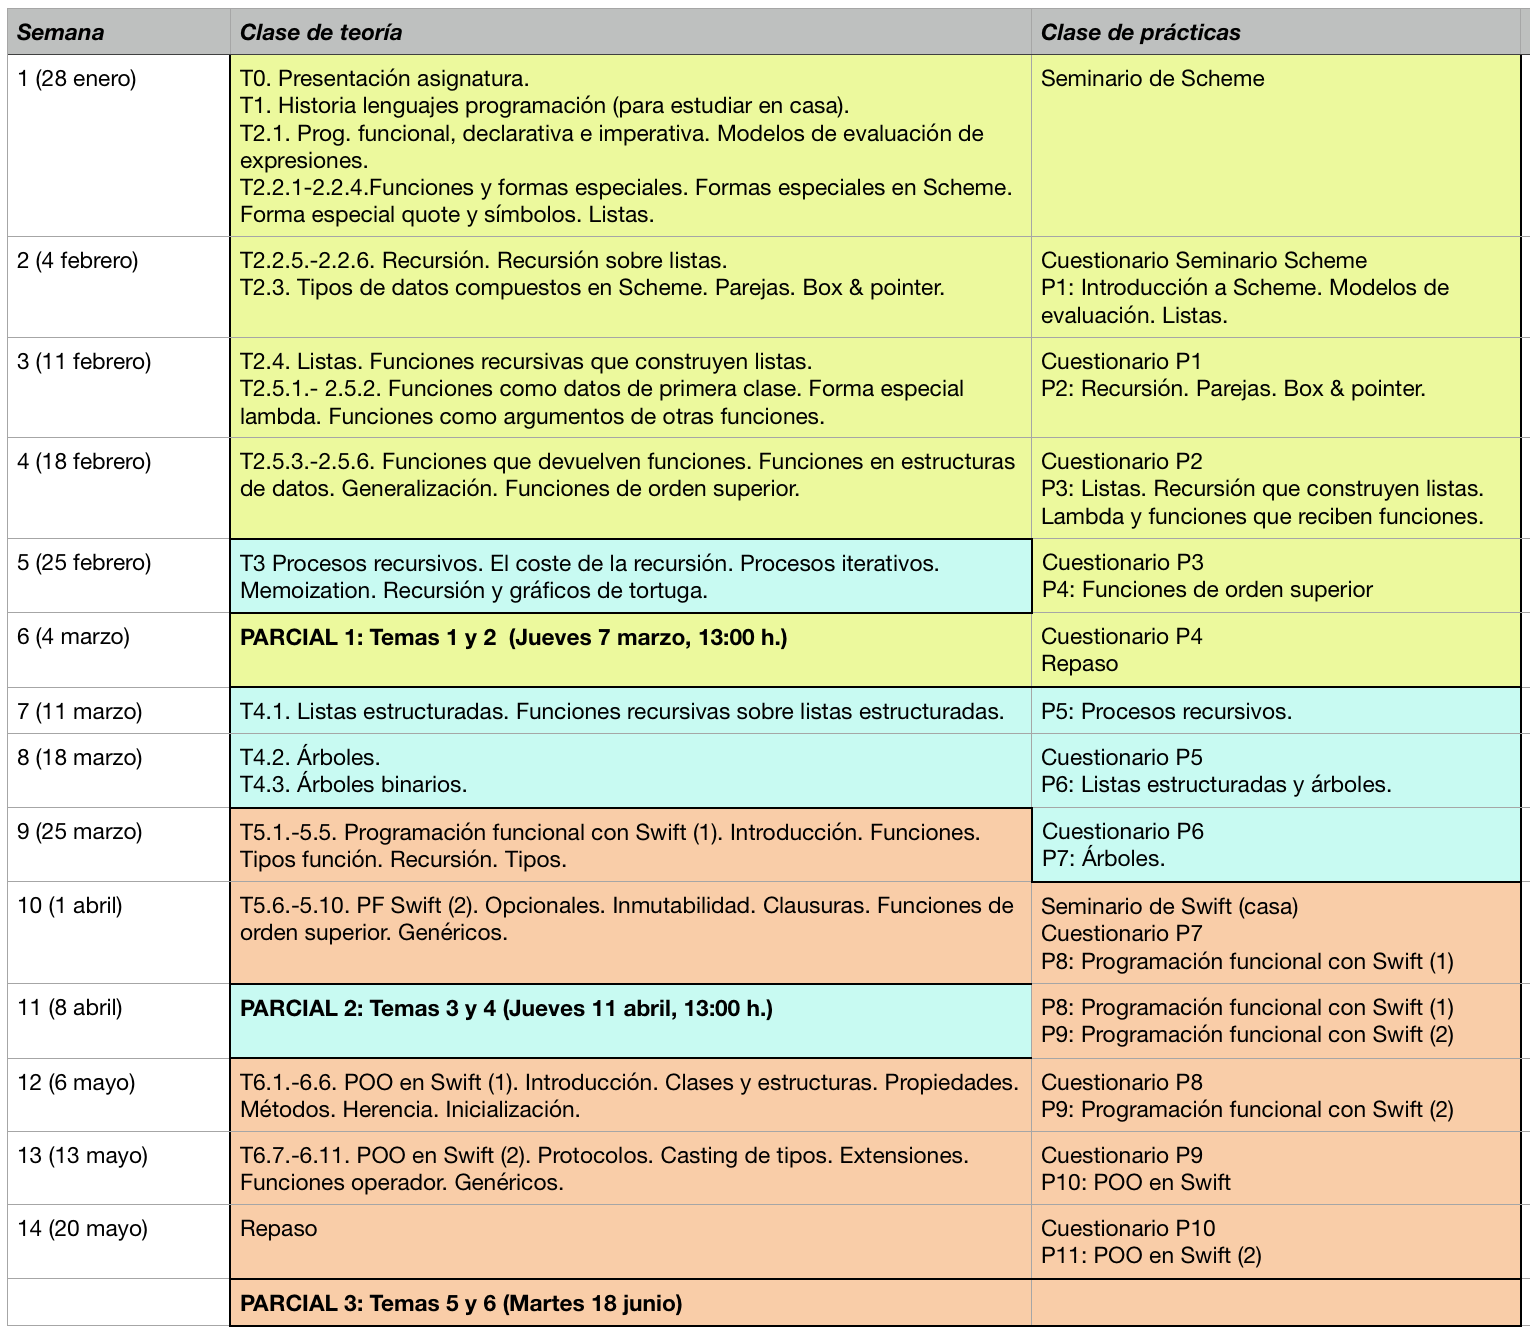
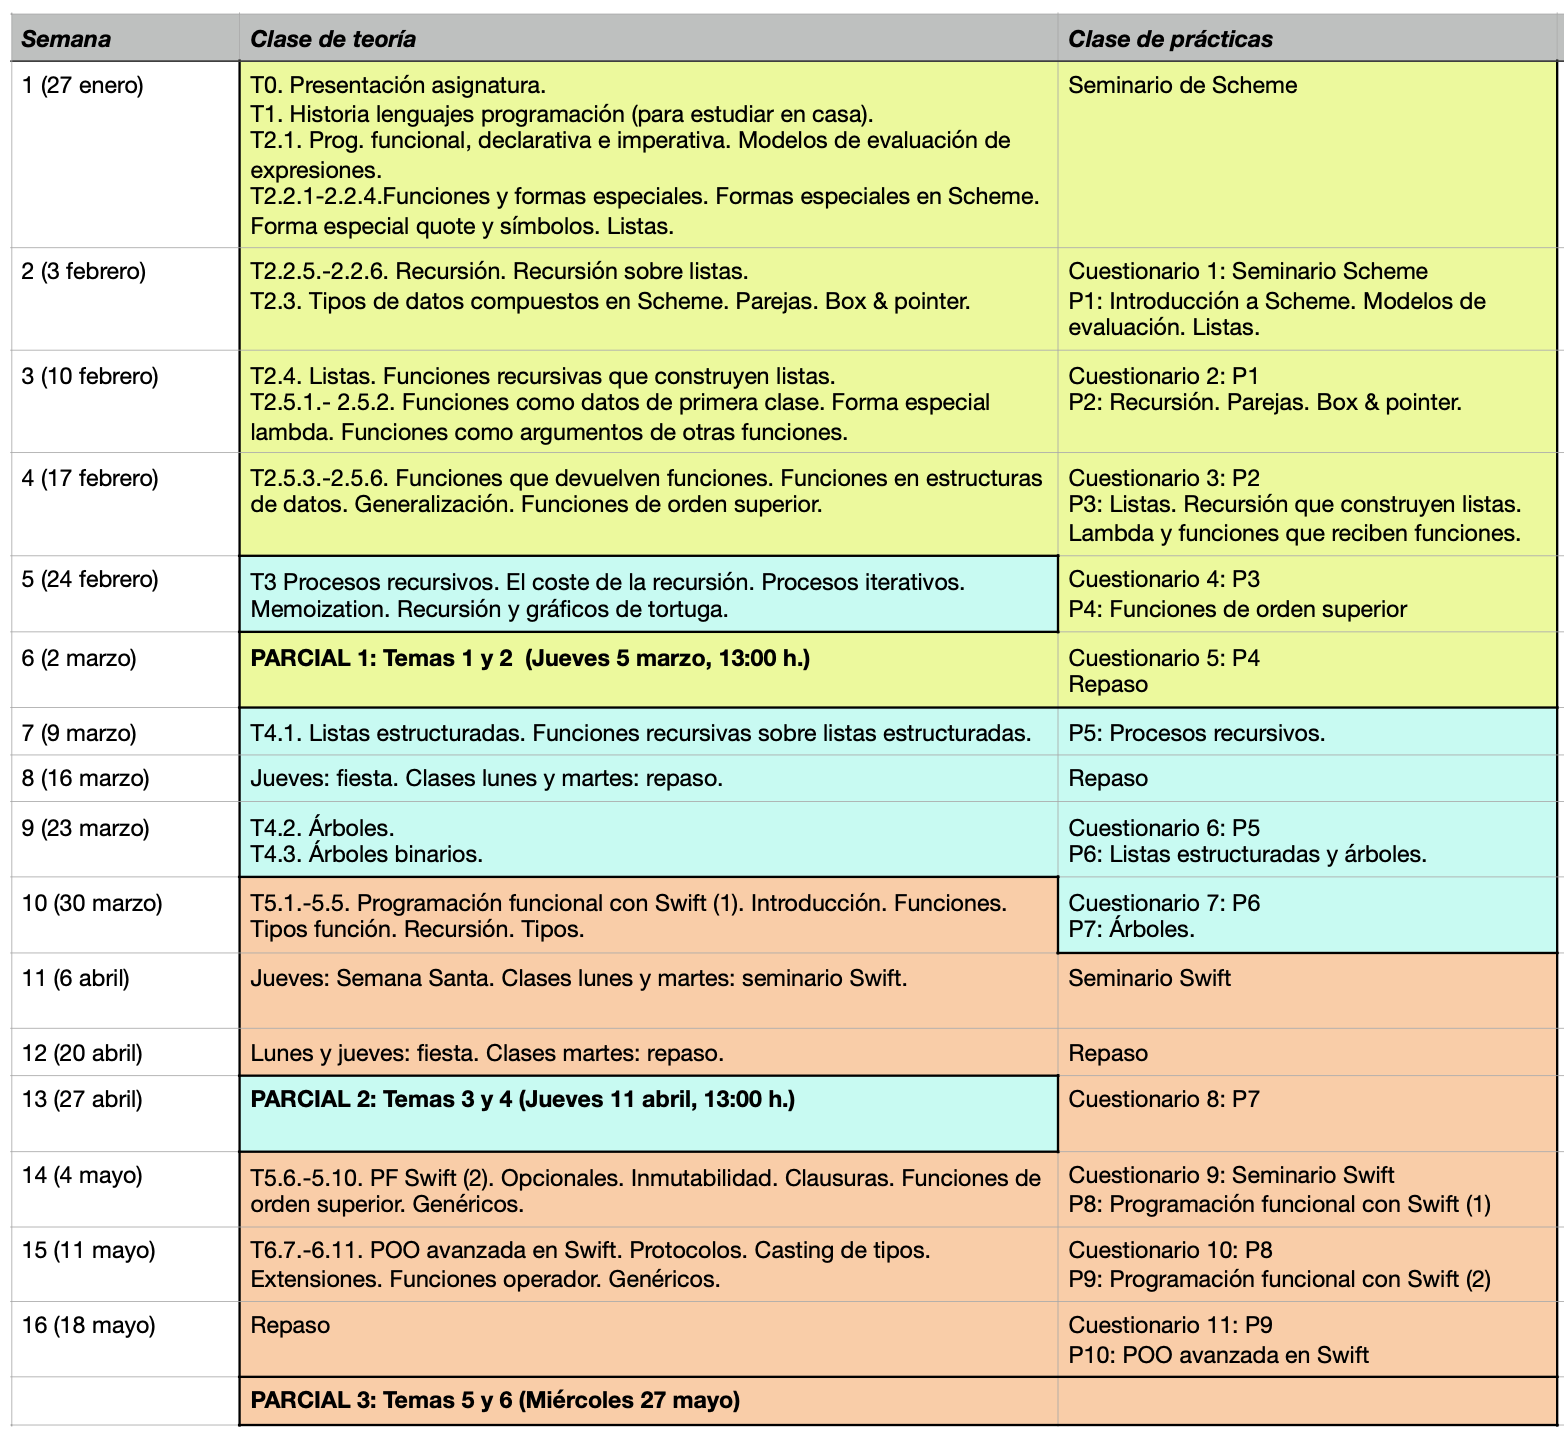
Actualización nuevo curso

Changed region(s): [[0.0, 0.0, 1.0, 1.0], [0.0, 0.153, 0.0922, 0.2142]]

diff --git a/docs/teoria/tema00-descripcion-asignatura/tema00-descripcion-asignatura.md b/docs/teoria/tema00-descripcion-asignatura/tema00-descripcion-asignatura.md
@@ -70,6 +70,31 @@ dominios concretos.
 
 ## Temario
 
+### Bloques temáticos ###
+
+La asignatura se divide en 3 bloques temáticos, todos ellos de igual
+duración, en los que se utilizará el lenguaje de programación que
+aparece entre paréntesis:
+
+1. Programación funcional (Scheme): temas 1 y 2
+2. Procesos y estructuras recursivas (Scheme): temas 3 y 4
+3. Programación funcional en Swift y programación orientada a objetos
+   (Swift): temas 5 y 6
+
+Los lenguajes de programación se introducirán mediante seminarios que
+impartidos en las clases de prácticas.
+
+* Seminario 1. **El lenguaje de programación Scheme**:
+  Primitivas. Tipos de datos
+  básicos. Símbolos. Cadenas. Listas. Definición de funciones. 
+* Seminario 2. **El lenguaje de programación Swift**. Intérprete y
+  scripts. Tipos de datos básicos. Operadores. Estructuras de
+  control. Ámbito de variables. Tipos de datos compuestos: tuplas,
+  arrays y colecciones. Recorriendo colecciones. Valores mutables e
+  inmutables. Inicialización. Tipos de referencia y valor en Swift.
+
+### Temas ###
+
 * Tema 1. **Lenguajes de programación**: Historia de los lenguajes de
   programación. Elementos de los lenguajes de
   programación. Abstracción. Paradigmas de programación. Compiladores
@@ -99,17 +124,6 @@ dominios concretos.
   avanzados de POO en Swift: Extensiones, Protocolos y
   Genéricos. Gestión de errores.
 
-Seminarios:
-
-* Seminario 1. **El lenguaje de programación Scheme**:
-  Primitivas. Tipos de datos
-  básicos. Símbolos. Cadenas. Listas. Definición de funciones.
-* Seminario 2. **El lenguaje de programación Swift**. Intérprete y
-  scripts. Tipos de datos básicos. Operadores. Estructuras de
-  control. Ámbito de variables. Tipos de datos compuestos: tuplas,
-  arrays y colecciones. Recorriendo colecciones. Valores mutables e
-  inmutables. Inicialización. Tipos de referencia y valor en Swift.
-
 El calendario de temas, prácticas y exámenes se puede ver en la
 siguiente figura.
 
@@ -118,10 +132,9 @@ siguiente figura.
 
 ## Prácticas
 
-Las prácticas consistirán en la resolución de hojas de ejercicios con
-5 o 6 problemas de programación relacionados con los conceptos vistos
-en las sesiones de teoría. Estos ejercicios servirán para reforzar y
-profundizar en las competencias de la asignatura.
+Las prácticas son fundamentales en la asignatura y sirven para
+comprender, trabajar y profundizar los conceptos y competencias
+estudiados en las clases de teoría.
 
 Para el desarrollo de las prácticas utilizaremos los siguientes
 lenguajes de programación y entornos de desarrollo:
@@ -131,6 +144,10 @@ lenguajes de programación y entornos de desarrollo:
 * [Swift](https://swift.org) (lenguaje multiparadigma creado por
   Apple, con conceptos modernos de programación funcional y
   programación orientada a objetos)
+
+Cada práctica consistirá en la resolución de una **hoja de ejercicios**
+con 5 o 6 pequeños problemas de programación relacionados con la
+teoría vista durante la semana.
 
 Se realizarán 11 sesiones de ejercicios de prácticas de una semana de
 duración y 2 seminarios sobre los anteriores lenguajes de programación.
@@ -147,19 +164,39 @@ los profesores. Es preferible el foro, porque de esta forma las
 contestaciones y aclaraciones serán compartidas con el resto de
 compañeros.
 
-El domingo por la noche se entregará la práctica terminada en Moodle
-para su archivo.
+Al final de la siguiente semana de realización de la hoja de
+ejercicios (una vez realizado su cuestionario) se publicará su
+solución.
 
-Durante la semana siguiente se realizará al comienzo de la clase de
-prácticas un **cuestionario de prácticas** individual sobre los
-ejercicios realizados y sobre los conceptos de teoría asociados. El
-cuestionario se evaluará con una calificación de 0 a 10.
+### Cuestionarios ###
 
-Una vez realizados todos los cuestionarios, se publicará la solución
-de la práctica y la calificación de los cuestionarios.
+Al comienzo de cada sesión de prácticas se realizará un **cuestionario
+sobre la hoja de ejercicios de la semana anterior**. La superación de
+los cuestionarios de cada bloque sumará 0,5 puntos a la nota del
+parcial de ese bloque (ver el apartado de evaluación).
 
-La nota media de todos los cuestionarios formará parte de la
-calificación final de la asignatura, ponderada en un 20%.
+Los cuestionarios constarán de unas 3 preguntas cortas **sobre la
+práctica y sobre los conceptos de teoría asociados**. Dentro de cada
+bloque temático deberás haber **aprobado los cuestionarios previos para
+poder realizar el cuestionario actual**. Se permitirá recuperar los
+cuestionarios previos suspendidos, **una vez por sesión** y siempre
+**dentro del tiempo** destinado a la realización de los mismos. Sólo
+se podrán recuperar cuestionarios del bloque temático actual.
+
+El cuestionario se realizará en Moodle y se evaluará con una
+calificación de 0 a 10 (aprobando con una nota >= 5). Constará de 3
+preguntas de igual puntuación (3,333 puntos). En cada pregunta se
+permitirán 3 intentos y cada intento fallado descontará 1/3 de la
+puntuación de la pregunta (1,111 puntos). De esta forma, para aprobar
+un cuestionario se podrán fallar como máximo 4 intentos.
+
+Tendrás que tener cuidado al escribir las respuestas de los
+cuestionarios. Deberás escribirlas de forma totalmente correcta,
+**incluyendo los espacios en blanco**. Deberás fijarte en los ejemplos
+que proporcionamos en teoría y en los resultados de la ejecución de
+expresiones en el intérprete del lenguaje.
+
+<img src="imagenes/respuestas-cuestionario.png" width="500px"/>
 
 !!! Warning "Uso del software iTALC"
     Durante el desarrollo de las sesiones prácticas es obligatorio 
@@ -203,19 +240,17 @@ La distribución de grupos del curso 2018-19 es la siguiente:
 
 ### Convocatoria normal C3 (evaluación continua)
 
-La asignatura se divide en 3 bloques temáticos, todos ellos de igual
-duración, en los que se utilizará el lenguaje de programación que
-aparece entre paréntesis:
+Para cada bloque temático se realizará un examen parcial. En cada
+bloque temático se pueden obtener 0,5 puntos adicionales que se suman
+a la nota del parcial. Los puntos adicionales se obtienen si se
+aprueban n-1 cuestionarios del bloque. 
 
-1. Programación funcional (Scheme)
-2. Procesos y estructuras recursivas. (Scheme)
-3. Programación funcional en Swift y programación orientada a objetos (Swift)
+Cada bloque pondera 1/3 en la nota final. No hay nota mínima en
+ningún bloque.
 
-Para cada bloque temático se realizará un examen parcial escrito que
-ponderará un 26,67% (80% en total) en la nota final.
- 
-El 20% restante para la nota final se obtendrá con la nota media de
-los cuestionarios realizados en las sesiones de prácticas.
+La siguiente figura resume la evaluación:
+
+<img src="imagenes/evaluacion.png" width="800px"/>
 
 !!! Warning "Normas importantes sobre la realización de los cuestionarios de prácticas "
     - Por cuestiones de logística de la asignatura, cada alumno debe
